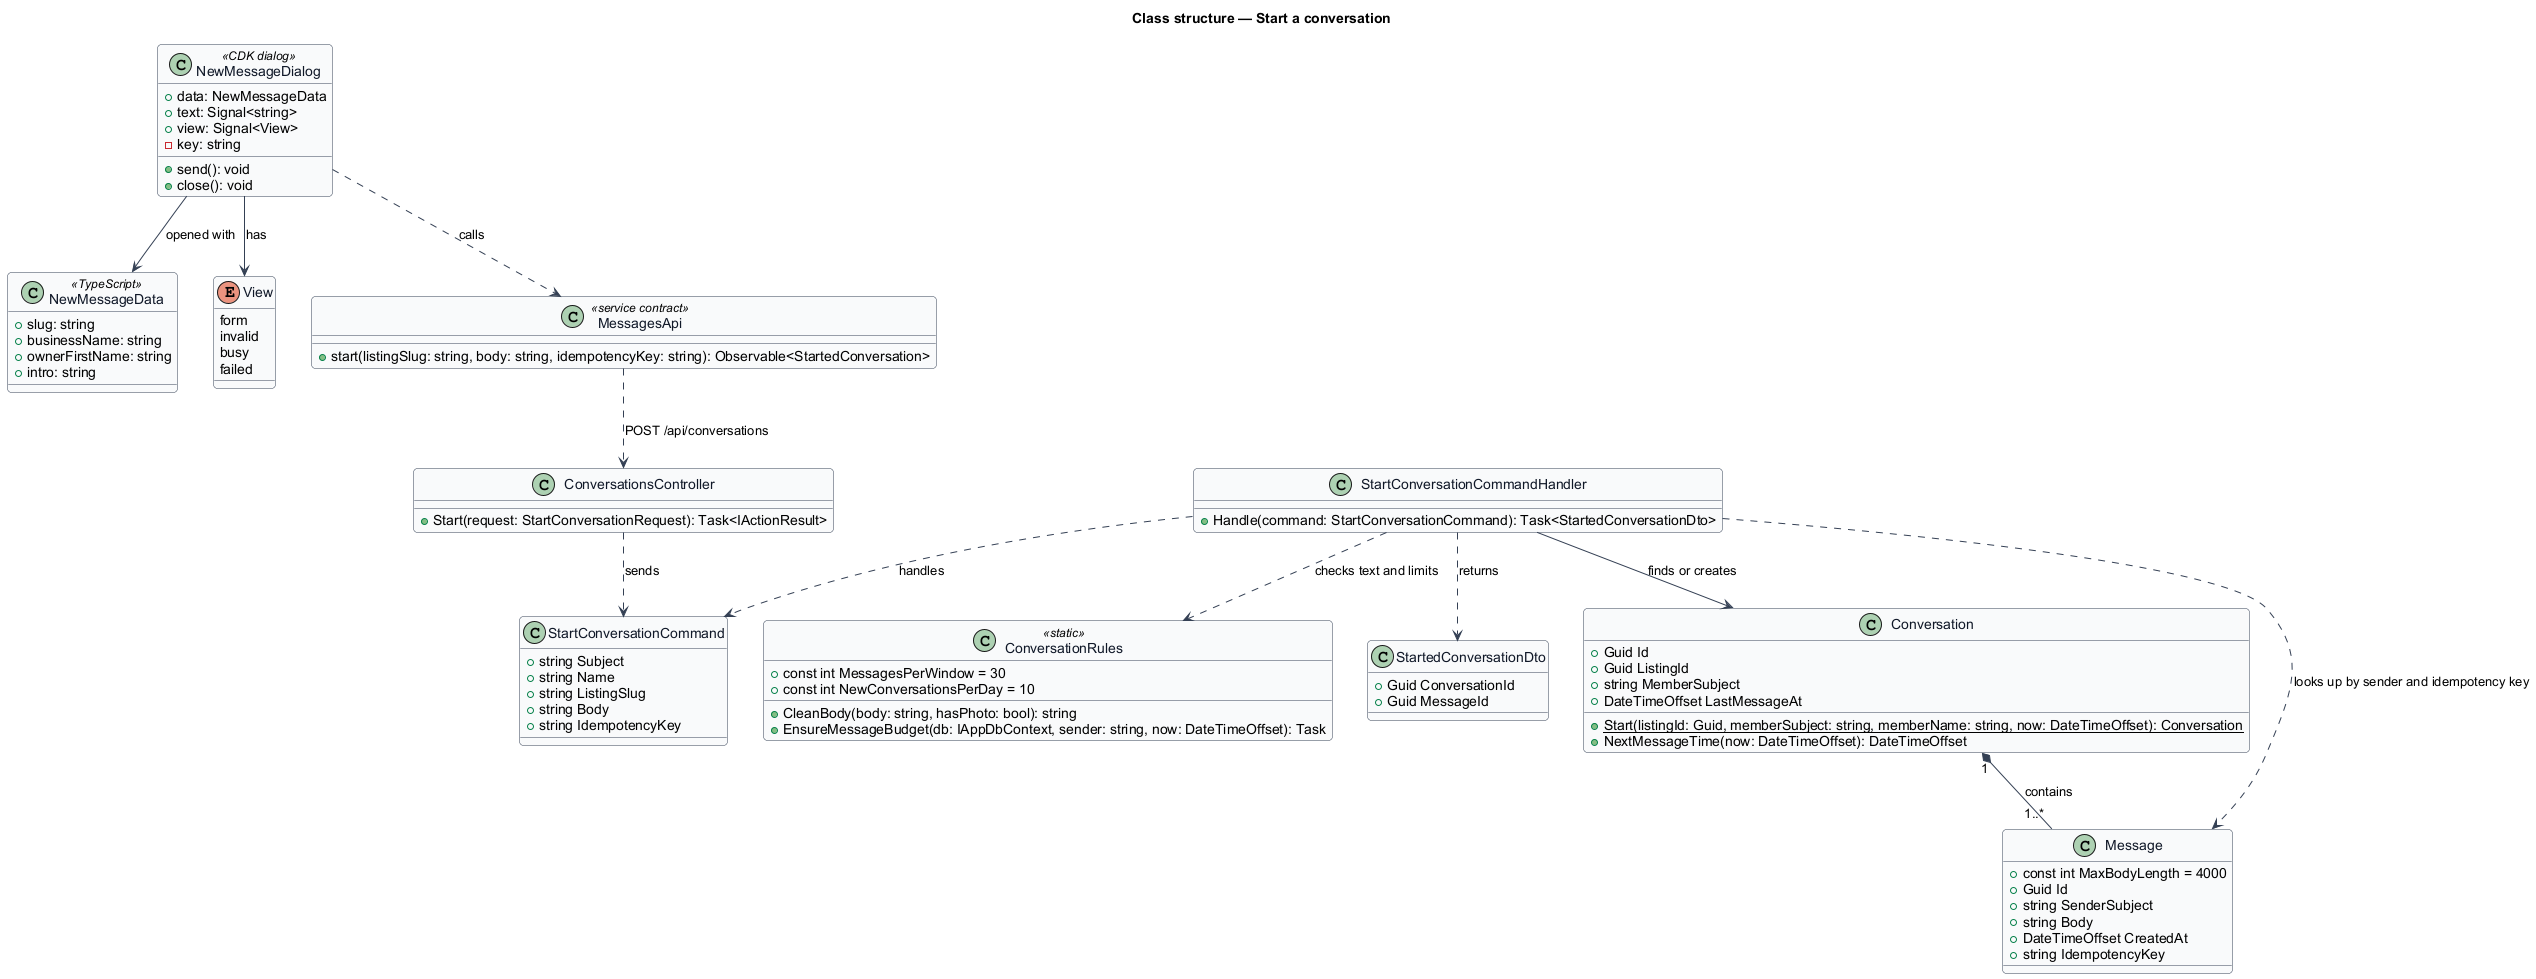
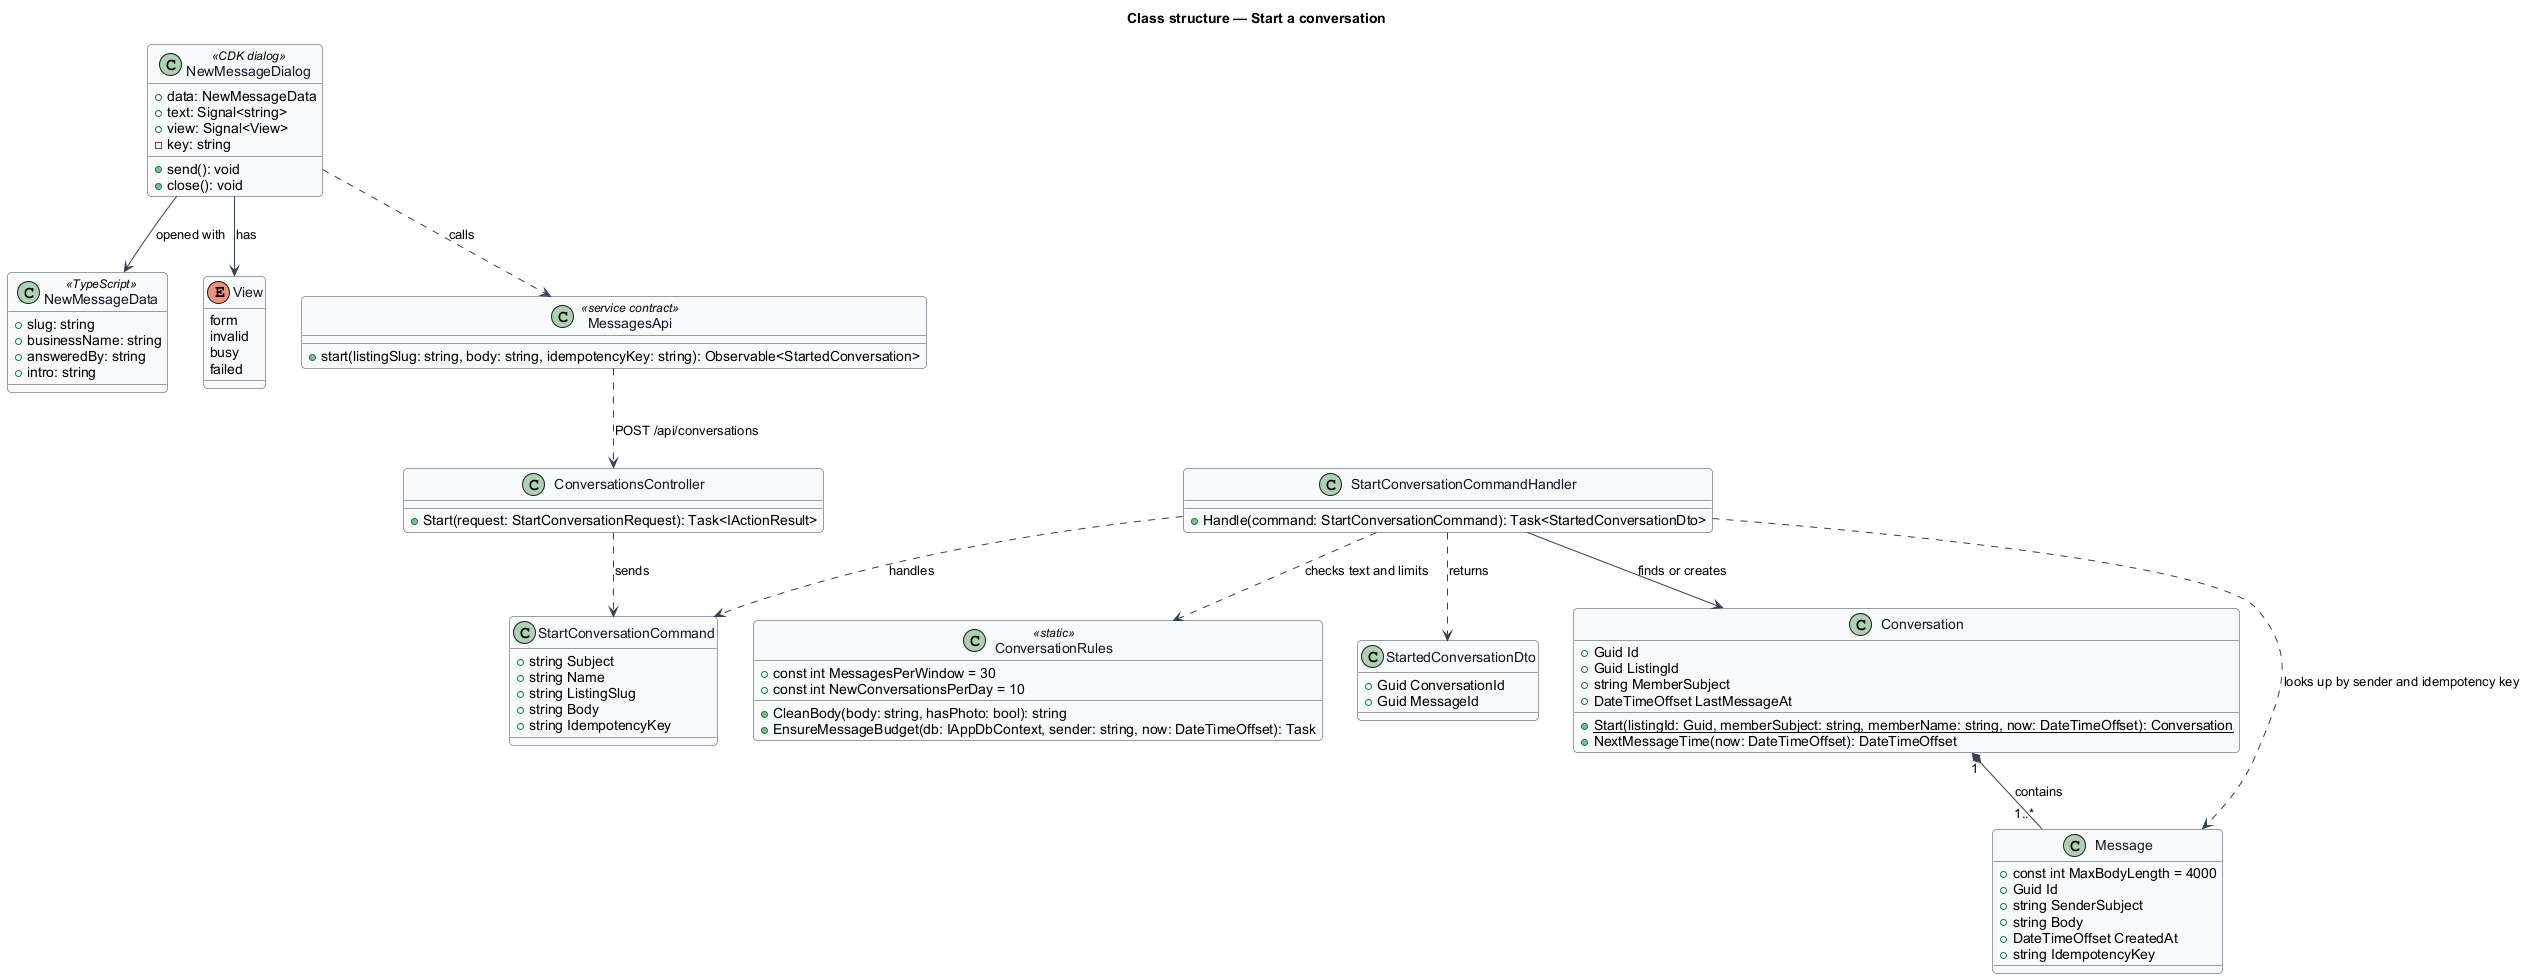
Rescore messaging and secure uploads: journey 6 is at 98%, with what is left named

diff --git a/docs/estimates/messaging.md b/docs/estimates/messaging.md
@@ -2,35 +2,48 @@
 
 | Design | Effort | Complete |
 |---|---|---|
-| exchange-messages | 5 days | 95% |
-| read-inbox | 4 days | 95% |
-| report-conversation | 4 days | 95% |
-| start-conversation | 4 days | 90% |
+| exchange-messages | 5 days | 97% |
+| read-inbox | 4 days | 100% |
+| report-conversation | 4 days | 97% |
+| start-conversation | 4 days | 100% |
 
-## Built (journey 6)
+Scored on 12 November 2026 from the code and its tests, after journey 6 was finished (ADR 0050).
 
-- Conversations, messages, read marks, mute, report and block, photo upload with metadata removed
-  and signed five-minute links, message limits, idempotent sends, the inbox with search, the unread
-  count in the navigation summary (`backend/tests/Jubilee.Api.Tests/MessagingTests.cs`, 35 tests).
-- The Messages page, an open conversation (instant send, "Sending…", retry and delete, earlier
-  messages, away notice) and the message dialog on `/b/:slug/message`
-  (`e2e/tests/messages.spec.ts`, 28 tests).
+## Built
 
-- The rest of journey 6 (ADR 0039): the conversation menu with mute, unmute and the toast with "Undo";
-  the report dialog with the member's block; photos in the composer and in bubbles, shrunk on the
-  device, with a renewed signed link; a reply arriving in the open conversation and the inbox over
-  the event stream; request cards in the timeline; the owner's away period on My business
-  (`MessagingTests.cs`, 54 tests; `e2e/tests/messages.spec.ts`, 61 tests; `my-business.spec.ts`,
-  8 away tests; parity specs for `jb-menu`, `jb-message-bubble`, `jb-attach-photo` and
-  `jb-request-card`).
+- Conversations, messages, read marks, mute, report and block, photos without their metadata behind
+  signed five-minute links, message limits, idempotent sends, the inbox with search, the unread
+  count in the navigation summary (ADR 0014).
+- The conversation menu with mute and "Undo", the report dialog with the member's block, photos in
+  the composer and in bubbles, a reply arriving over the event stream, request cards, the owner's
+  away period on My business (ADR 0039).
+- Journey 6 finished (ADR 0050): the away notice as a toast and a line that name the day; the inbox
+  paged by 50 with "Show more conversations"; message photos scanned before they are stored and
+  kept by the media store; the message dialog's limit and counter; an owner's rows named with the
+  business; an empty conversation that greets by first name; earlier messages that keep the
+  reader's place; conversation reports limited to 10 a day; an attempt on someone else's
+  conversation logged; every limit said in the words of L2-137.
+- Tests: `backend/tests/Jubilee.Api.Tests/MessagingTests.cs` (71), `AttachmentLinkTests.cs` (3),
+  `EmailNotificationTests.cs` (mute and unmute), `backend/tests/Jubilee.Infrastructure.Tests/MalwareScannerTests.cs`
+  (11); `e2e/tests/messages.spec.ts` (88), `offline.spec.ts` (the queue, with a photo and after
+  24 hours), `my-business.spec.ts` (the away period); parity specs for `jb-menu`,
+  `jb-message-bubble`, `jb-attach-photo` and `jb-request-card`.
+
+## What is left
+
+| Criterion | Design | Open because |
+|---|---|---|
+| L2-060 AC9, L2-138 AC4: a photo is scanned | exchange-messages | Owner step. The scan is built and tested against a stand-in for `clamd`; production has no `clamd` yet, so it refuses message photos (`SCAN_UNAVAILABLE`) until the owner runs one and sets `Malware__Scanner=clamav` (`eng/azure/README.md`, "Message photos and the malware scanner"). |
+| L2-138 AC2: a separate cookieless domain, object storage | exchange-messages | Owner step. A message photo is a file under `Media__Root`, delivered by the API on the application's origin behind its signed link. |
+| L2-138 AC1: "re-encodes" | exchange-messages | A message photo is stripped of everything that is not picture data but is not decoded and encoded again (ADR 0014, ADR 0050). |
+| L2-137 AC2: a bot challenge on the report form | report-conversation | The `security/limit-abuse` design; no journey has built the challenge for the report forms. |
+| L2-137 AC3: three spam reports suspend new conversations | report-conversation | The `security/limit-abuse` design; a report has no "spam" kind yet. |
 
 ## Deferred, with the reason
 
 | Criterion | Deferred because |
 |---|---|
-| L2-059 paging of a very long inbox | The list holds 200 conversations; paging when a member exceeds that. |
-| Malware scan of photos and object storage | No scanner or store is chosen; photos are re-encoded to JPEG or PNG data only and kept behind a later `IMediaStore` (ADR 0014). |
-| Photos in the offline queue | The queue holds text (ADR 0032); a message with a photo fails offline and offers "Try again" (ADR 0039). |
-| L2-062 AC1 the away notice as a toast with the return day | The conversation shows the notice in place, without the day, as journey 6 first built it; the owner now sets the day. |
-| The service worker and Background Sync for the offline queue | ADR 0032. |
-| Mail templates and a real e-mail provider | No provider is chosen (ADR 0025). |
+| Photos in the offline queue | Not asked for: L2-120 AC4 says a message with a photo is not queued and offers "Try again" (ADR 0050). |
+| The service worker and Background Sync for the offline queue | Journey 24 (ADR 0032). |
+| Removing photos that were uploaded and never sent | Retention work (L2-148). |
+| The inbox on the local SQLite stack | The preview of the last message needs `OUTER APPLY`, which SQLite lacks; SQL Server has it and the e2e suite answers the inbox from its stand-in (ADR 0050). |

diff --git a/docs/detailed-designs/messaging/exchange-messages/README.md b/docs/detailed-designs/messaging/exchange-messages/README.md
@@ -168,7 +168,8 @@ ADR 0050.
   index on `(SenderSubject, IdempotencyKey)` of `Messages`: a repeat answers the
   original message and writes nothing (L2-132, ADR 0014). No middleware takes
   part. The handler refuses more than 30 messages in 10 minutes per member with
-  `429` and `Retry-After` (L2-137).
+  `429` and `Retry-After` (L2-137); the bubble says "Not sent. You’re doing that
+  a lot. Try again in {n} minutes.".
 - **`UploadAttachmentCommandHandler`** — runs three steps in order and stops at
   the first failure (ADR 0050). First `ImageSanitizer.Sanitize` decides the type
   from the bytes, accepts JPEG and PNG up to `5 MB` and `8,000` pixels wide, and
@@ -206,7 +207,10 @@ ADR 0050.
 - **Signed link** — a stored photo is served only from
   `/api/attachments/{id}?expires=…&sig=…` by `AttachmentsController`, where `sig`
   is an HMAC-SHA256 of the id and the expiry made by `IAttachmentLinks`
-  (`AttachmentLinks`) with `Attachments:SigningKey`. The link is valid for
+  (`AttachmentLinks`) with `Attachments:SigningKey`. Without that setting the
+  Development environment signs with a key that is in the source code, and every
+  other environment makes a random key when it starts, so a link is never signed
+  with a key anyone can read (ADR 0050). The link is valid for
   `5 minutes` and is served with `X-Content-Type-Options: nosniff` and
   `Cache-Control: private, no-store` (ADR 0014). Each message read carries a new
   link. `GetAttachmentQueryHandler` checks the signature and the expiry, then

diff --git a/docs/adr/0050-finish-message-a-business.md b/docs/adr/0050-finish-message-a-business.md
@@ -106,6 +106,14 @@ a real scanner in a test.
 - **An attempt on someone else's conversation is logged (L2-133 AC2).** The exception middleware
   logs a `404` whose code is `conversation_not_found` at `Warning`, with the caller's subject and
   the path through `LoggedPath` (ADR 0049), as it already logs a `403`.
+- **A web address in a message stays text.** L2-063 AC4 asked for links "rendered as text with
+  `rel`", which says two things at once. Messages are shown as the text that was typed, with no
+  link, which is the safer reading and what was built; the criterion now says so, and keeps the
+  `rel` rule for the day addresses are made into links.
+- **Every limit is said in the same words (L2-137 AC1).** A send, a first message or a report
+  that meets its limit says "You’re doing that a lot. Try again in {n} minutes.", with the wait
+  from `Retry-After` (`tryAgainIn`), in the bubble and in the two dialogs. The search waits 150 ms
+  after the last keystroke, not 250, to stay well inside the 300 ms of L2-059 AC1.
 - **Small corrections to what is said.** The dialog's hint names the owner's first name
   ("Be specific and Trevor can answer in one reply."); the dialog stops input at 4,000 characters
   and counts down the last 200; an empty conversation says "Say hello to Trevor" and "tell them

diff --git a/docs/estimates/security.md b/docs/estimates/security.md
@@ -9,5 +9,17 @@
 | protect-credentials-and-sessions | 4 days | 0% |
 | restrict-staff-network | 4 days | 90% |
 | secure-transport-and-tokens | 3 days | 0% |
-| secure-uploads | 4 days | 50% |
+| secure-uploads | 4 days | 65% |
 | validate-input | 3 days | 0% |
+
+## secure-uploads
+
+Built for message photos by journey 6 (ADR 0050): the checks by content, both sides limited to
+8,000 pixels, the malware scan before anything is stored (`IMalwareScanner`, ClamAV over `INSTREAM`,
+no scanner means no photo), the bytes kept by `IMediaStore` under a random name, and signed links
+that are never signed with a published key outside Development. Listing photos were already
+re-encoded and kept by the media store.
+
+What is left: a running `clamd` and the cookieless media domain (owner steps, `eng/azure/README.md`);
+the scan for listing photos and feedback screenshots; re-encoding message photos; product photo
+uploads, which do not exist yet (journey 16).

diff --git a/docs/journey.md b/docs/journey.md
@@ -21,7 +21,7 @@ journey that is implemented: the effort-weighted average of its feature designs 
 | 3 | Search the directory | Search businesses, services and products by keyword with grouped results. | 6 | 100% |
 | 4 | Join Jubilee | Create an account by e-mail or Google and confirm the address. | 8 | 98% |
 | 5 | Sign in and out | Sign in, stay signed in safely, and sign out. | 6 | 100% |
-| 6 | Message a business | Hold a private conversation with a business from an inbox. | 12 | 94% |
+| 6 | Message a business | Hold a private conversation with a business from an inbox. | 12 | 98% |
 | 7 | Book a meeting | Request a meeting time for a service with a business. | 6 | 100% |
 | 8 | Request a quote | Describe a job and ask a business for a quote. | 3 | 95% |
 | 9 | Request a product | Send a shop an order request for a product, without payment. | 3 | 100% |

diff --git a/docs/detailed-designs/messaging/start-conversation/README.md b/docs/detailed-designs/messaging/start-conversation/README.md
@@ -36,7 +36,8 @@ decisions behind it are recorded in ADR 0014, ADR 0039 and ADR 0050.
   `/b/:slug/message`, which is the same route with the dialog open, so opening
   the dialog neither reloads the page nor counts another view (ADR 0014). The
   page opens `NewMessageDialog` with `NewMessageData`: the listing's `slug`, the
-  `businessName`, the `ownerFirstName` and the `intro`. The intro carries the
+  `businessName`, `answeredBy` (the owner's first name, or the business when no
+  owner is named) and the `intro`. The intro carries the
   reply-time hint ("Trevor Chew usually replies within a day."), taken from the
   listing's stored median first-reply band, the same value the listing page
   shows as "Replies". With too few replies the intro says who the message goes

diff --git a/docs/detailed-designs/messaging/read-inbox/README.md b/docs/detailed-designs/messaging/read-inbox/README.md
@@ -59,7 +59,7 @@ decisions behind it are recorded in ADR 0014, ADR 0039 and ADR 0050.
   Open a business and tap Message to ask a question, get a quote or book a time.
   Replies land here." with the action "Browse businesses".
 - **Search** — `jb-search-field`, labelled "Search messages". `InboxList` waits
-  `250 ms` after the last keystroke before it asks, so the filtered list appears
+  `150 ms` after the last keystroke before it asks, so the filtered list appears
   within `300 ms`; pressing Enter searches at once. With no match it shows "No
   messages match “roofing”. Check the spelling, or search by business name."
   with "Clear search"; the term is quoted in double quotation marks.

diff --git a/docs/estimates/README.md b/docs/estimates/README.md
@@ -13,8 +13,8 @@
 | [system-pages](system-pages.md) | 10 days | 86% |
 | [listings](listings.md) | 20 days | 93% |
 | [accounts](accounts.md) | 50 days | 91% |
-| [security](security.md) | 34 days | 31% |
-| [messaging](messaging.md) | 17 days | 94% |
+| [security](security.md) | 34 days | 32% |
+| [messaging](messaging.md) | 17 days | 98% |
 | [requests](requests.md) | 39 days | 97% |
 | [notifications](notifications.md) | 16 days | 89% |
 | [onboarding](onboarding.md) | 17 days | 91% |
